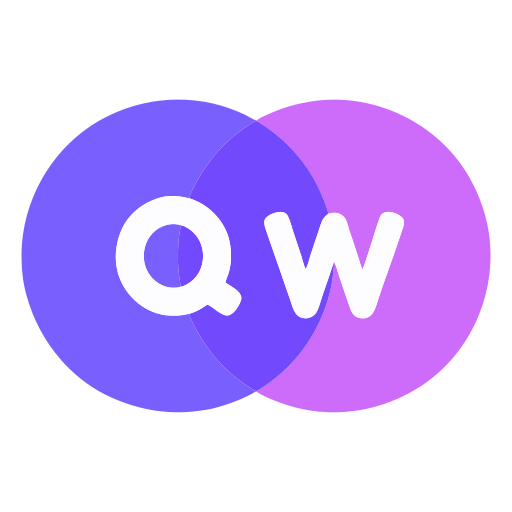
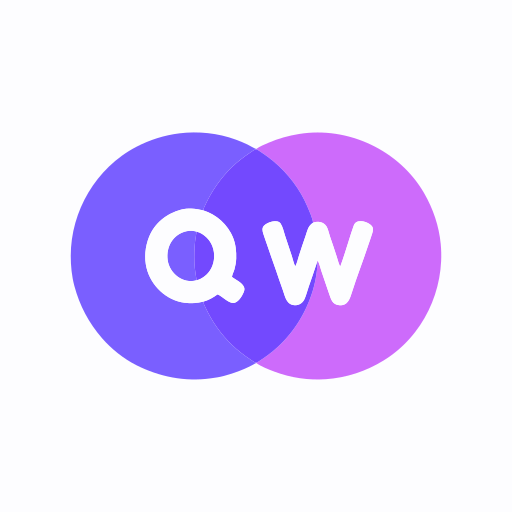
feat(pwa): icone respiree et animation de lancement
Icone. Les fichiers livres etaient la marque seule sur un fond
transparent, avec le trace occupant ~91% du carre. Deux consequences: le
fond dependait de ce que l'OS composait dessous (d'ou le carre blanc sur
iOS, non choisi), et la marque touchait presque les bords.

- fond explicite en #FDFDFF, le blanc du logo lui-meme,
- marque ramenee a ~72% du carre, ce qui degage une marge et la place
  dans la zone sure des icones maskable Android,
- scripts/generate-icons.mjs regenere les trois PNG depuis
  qwillio-logo-512.svg, qui reste la seule definition du trace.

Lancement. Nouveau SplashScreen, affiche uniquement quand l'app est
lancee depuis l'ecran d'accueil: sur le site il s'interposerait entre un
visiteur et la page sans raison. Une seule fois par lancement, pas a
chaque navigation.

Les deux lobes arrivent par les cotes, se rejoignent, et au moment du
recouvrement laissent place au vrai logo: la derniere image est donc la
marque exacte et pas une approximation. Le recouvrement est la vraie
lentille d'intersection des deux cercles, calculee, pas un cercle pose
au milieu qui deborderait des lobes.

prefers-reduced-motion est respecte: le lancement se confirme sans rien
faire traverser l'ecran.

En mode app et sans session, la racine mene desormais a /login plutot
qu'a la page marketing: quelqu'un qui a installe l'app a deja choisi.

manifest: background_color et theme_color passent au noir du produit,
pour que le splash dessine par l'OS avant le boot ne flashe pas en blanc.

Changed region(s): [[0.0312, 0.1875, 0.9688, 0.8125], [0.2188, 0.375, 0.5, 0.625]]

diff --git a/frontend/src/components/SplashScreen.tsx b/frontend/src/components/SplashScreen.tsx
@@ -1,0 +1,154 @@
+import { useEffect, useMemo, useState } from 'react';
+import { motion, AnimatePresence, useReducedMotion } from 'framer-motion';
+import QwillioLogo from './QwillioLogo';
+
+/**
+ * Launch animation for the installed app.
+ *
+ * The two lobes of the mark fly in from either side and meet; at the moment
+ * they overlap they resolve into the real logo, so the last frame is the brand
+ * mark itself rather than an approximation of it. Then the whole thing lifts
+ * away and hands over to whatever route is underneath.
+ *
+ * Shown only when running as an installed app: on the website it would sit
+ * between a visitor and the page for no reason.
+ */
+
+const EASE_OUT_EXPO = [0.16, 1, 0.3, 1] as const;
+const EASE_DRAWER = [0.32, 0.72, 0, 1] as const;
+
+/** Lobe geometry, matched to where the circles sit inside the 512 logo box. */
+const ORB = { r: 116, y: 256, leftX: 190, rightX: 322 };
+
+/**
+ * The vesica where the two lobes overlap, which the brand paints in the deep
+ * mauve. Its outline is an arc of each circle meeting at the two intersection
+ * points, not a circle of its own.
+ */
+const LENS = (() => {
+  const midX = (ORB.leftX + ORB.rightX) / 2;
+  const half = Math.sqrt(ORB.r ** 2 - ((ORB.rightX - ORB.leftX) / 2) ** 2);
+  const top = ORB.y - half;
+  const bottom = ORB.y + half;
+  // Down the left edge (arc of the right circle), then up the right edge
+  // (arc of the left circle); both bulge outward, hence sweep-flag 0.
+  return `M ${midX} ${top} A ${ORB.r} ${ORB.r} 0 0 0 ${midX} ${bottom} A ${ORB.r} ${ORB.r} 0 0 0 ${midX} ${top} Z`;
+})();
+
+export default function SplashScreen({ onDone }: { onDone: () => void }) {
+  const [visible, setVisible] = useState(true);
+  const reduced = useReducedMotion();
+
+  // A reduced-motion launch still confirms the app opened, it just does not
+  // fly anything across the screen.
+  const t = useMemo(
+    () => (reduced
+      ? { converge: 0.01, resolve: 0.2, hold: 700, out: 0.25 }
+      : { converge: 0.9, resolve: 0.55, hold: 1450, out: 0.45 }),
+    [reduced],
+  );
+
+  useEffect(() => {
+    const id = setTimeout(() => setVisible(false), t.hold);
+    return () => clearTimeout(id);
+  }, [t.hold]);
+
+  return (
+    <AnimatePresence onExitComplete={onDone}>
+      {visible && (
+        <motion.div
+          key="splash"
+          className="fixed inset-0 z-[100] grid place-items-center overflow-hidden"
+          style={{ background: '#0A0A0C' }}
+          initial={{ opacity: 1 }}
+          exit={{ opacity: 0, scale: reduced ? 1 : 1.04 }}
+          transition={{ duration: t.out, ease: EASE_DRAWER }}
+          role="status"
+          aria-label="Qwillio"
+        >
+          {/* Brand glow behind the mark, breathing slowly. */}
+          <motion.div
+            aria-hidden="true"
+            className="pointer-events-none absolute inset-0"
+            style={{
+              background:
+                'radial-gradient(58% 42% at 50% 46%, rgba(122,95,255,0.30) 0%, rgba(205,107,251,0.14) 42%, transparent 72%)',
+            }}
+            initial={{ opacity: 0, scale: 0.86 }}
+            animate={{ opacity: 1, scale: reduced ? 1 : [0.86, 1.06, 1] }}
+            transition={{ duration: reduced ? 0.2 : 1.7, ease: EASE_OUT_EXPO }}
+          />
+
+          <div className="relative" style={{ width: 168, height: 168 }}>
+            {/* Stage 1: the two lobes travel in and meet. */}
+            <motion.svg
+              viewBox="0 0 512 512"
+              className="absolute inset-0 h-full w-full"
+              aria-hidden="true"
+              initial={{ opacity: 1 }}
+              animate={{ opacity: 0 }}
+              transition={{ duration: t.resolve, delay: t.converge * 0.82, ease: 'linear' }}
+            >
+              <motion.circle
+                cx={ORB.leftX}
+                cy={ORB.y}
+                r={ORB.r}
+                fill="#7A5FFF"
+                initial={{ cx: reduced ? ORB.leftX : -40, opacity: reduced ? 1 : 0 }}
+                animate={{ cx: ORB.leftX, opacity: 1 }}
+                transition={{ duration: t.converge, ease: EASE_OUT_EXPO }}
+              />
+              <motion.circle
+                cx={ORB.rightX}
+                cy={ORB.y}
+                r={ORB.r}
+                fill="#CD6BFB"
+                initial={{ cx: reduced ? ORB.rightX : 552, opacity: reduced ? 1 : 0 }}
+                animate={{ cx: ORB.rightX, opacity: 1 }}
+                transition={{ duration: t.converge, ease: EASE_OUT_EXPO }}
+              />
+              {/* The overlap the brand actually uses, revealed as they close in. */}
+              <motion.path
+                d={LENS}
+                fill="#7349FE"
+                initial={{ opacity: 0 }}
+                animate={{ opacity: 1 }}
+                transition={{ duration: t.converge * 0.4, delay: t.converge * 0.55 }}
+              />
+            </motion.svg>
+
+            {/* Stage 2: the real mark takes over, so the held frame is exact. */}
+            <motion.div
+              className="absolute inset-0 grid place-items-center"
+              initial={{ opacity: 0, scale: reduced ? 1 : 0.94 }}
+              animate={{ opacity: 1, scale: 1 }}
+              transition={{ duration: t.resolve, delay: t.converge * 0.82, ease: EASE_OUT_EXPO }}
+            >
+              <QwillioLogo size={168} />
+            </motion.div>
+          </div>
+
+          <motion.p
+            className="absolute text-[15px] font-medium tracking-[0.16em] uppercase"
+            style={{ color: 'rgba(245,245,247,0.62)', bottom: '22%' }}
+            initial={{ opacity: 0, y: reduced ? 0 : 10 }}
+            animate={{ opacity: 1, y: 0 }}
+            transition={{ duration: 0.5, delay: t.converge + t.resolve * 0.6, ease: EASE_OUT_EXPO }}
+          >
+            Qwillio
+          </motion.p>
+        </motion.div>
+      )}
+    </AnimatePresence>
+  );
+}
+
+/** True when launched from the home screen rather than a browser tab. */
+export function isStandaloneApp(): boolean {
+  if (typeof window === 'undefined') return false;
+  return (
+    window.matchMedia?.('(display-mode: standalone)').matches ||
+    // iOS Safari predates the display-mode media query for installed apps.
+    (window.navigator as any).standalone === true
+  );
+}

diff --git a/frontend/src/App.tsx b/frontend/src/App.tsx
@@ -1,8 +1,9 @@
-import { useEffect, lazy, Suspense } from 'react';
+import { useEffect, useState, lazy, Suspense } from 'react';
 import { BrowserRouter, Routes, Route, Navigate, useLocation } from 'react-router-dom';
 import { GoogleOAuthProvider } from '@react-oauth/google';
 import { useAuthStore } from './stores/authStore';
 import ErrorBoundary from './components/ErrorBoundary';
+import SplashScreen, { isStandaloneApp } from './components/SplashScreen';
 const Layout = lazy(() => import('./components/layout/Layout'));
 const ClientLayout = lazy(() => import('./components/layout/ClientLayout'));
 const CloserLayout = lazy(() => import('./components/layout/CloserLayout'));
@@ -196,11 +197,19 @@ function PublicOrDashboard() {
     if (!user.onboardingCompleted) return <Navigate to="/onboard" />;
     return <Navigate to={homeRoute(user)} />;
   }
+  // Launched from the home screen, someone has already chosen Qwillio: send
+  // them to sign-in rather than to the marketing page they installed from.
+  if (isStandaloneApp()) return <Navigate to="/login" replace />;
   return <Suspense fallback={<Spinner />}><Home /></Suspense>;
 }
 
 export default function App() {
   const { checkAuth } = useAuthStore();
+  // The launch animation belongs to the installed app, and to one launch only:
+  // it must not replay on client-side navigation within the session.
+  const [splashDone, setSplashDone] = useState(
+    () => !isStandaloneApp() || sessionStorage.getItem('qw.splashShown') === '1',
+  );
 
   useEffect(() => {
     checkAuth();
@@ -210,6 +219,14 @@ export default function App() {
 
   return (
     <ErrorBoundary>
+      {!splashDone && (
+        <SplashScreen
+          onDone={() => {
+            sessionStorage.setItem('qw.splashShown', '1');
+            setSplashDone(true);
+          }}
+        />
+      )}
       <GoogleOAuthProvider clientId={googleClientId}>
       <BrowserRouter>
       <ScrollToTop />
